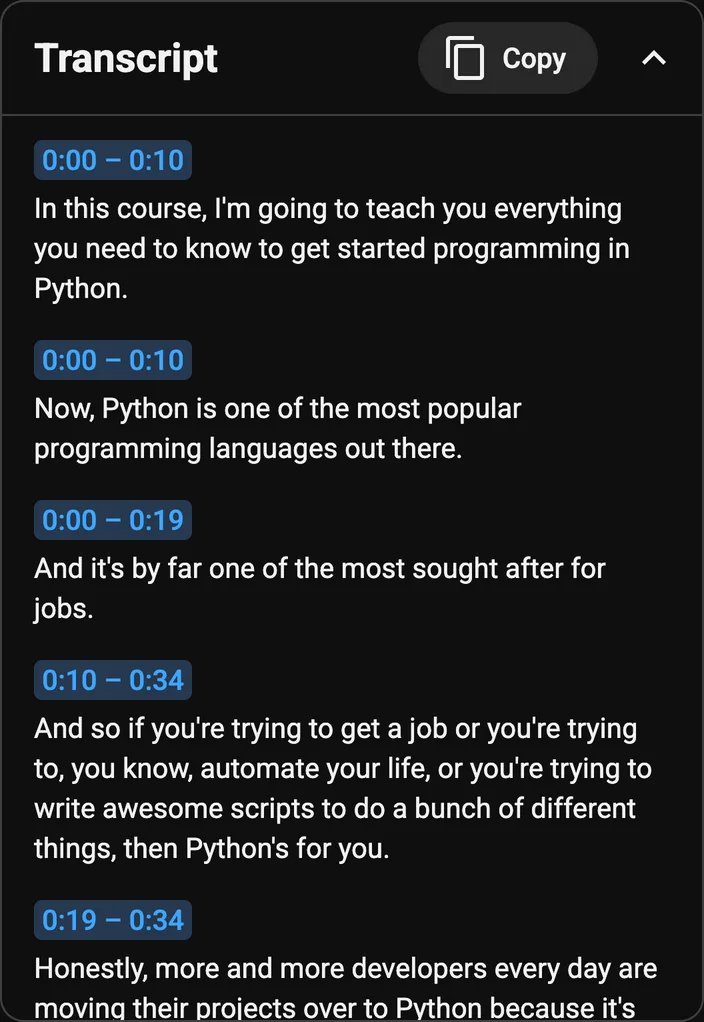
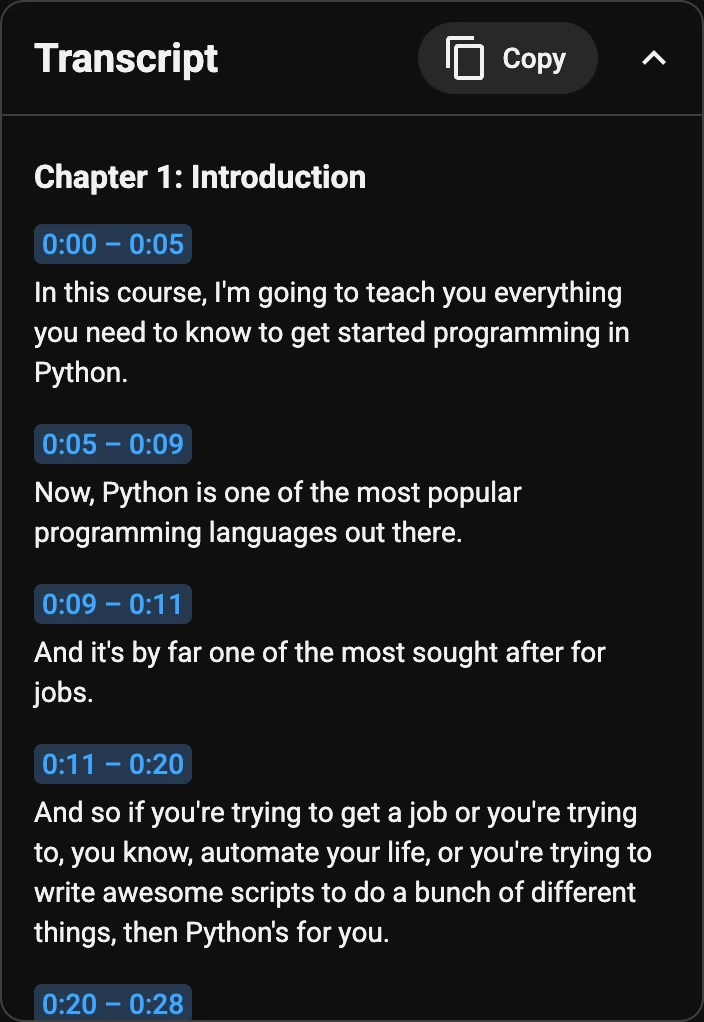
chore: refresh website card images and trim the launch kit
- website/assets/card-*.webp showed the pre-0.2.0 card (repeated time ranges, no
  chapter heading); regenerated with the new 'npm run screenshot -- --site'.
- Launch kit: Product Hunt and Indie Hackers material removed; gallery image 01
  regenerated from the new card images.
- Edge descriptions: en.txt is now an Edge-specific source text and the other 20
  languages follow it sentence by sentence.

Changed region(s): [[0.0312, 0.1213, 0.9375, 1.0], [0.3125, 0.6067, 0.7812, 0.6673], [0.8125, 0.6067, 0.8438, 0.6673]]

diff --git a/docs/launch/README.md b/docs/launch/README.md
@@ -8,32 +8,23 @@ Before submitting, read them briefly yourself and adjust them if needed.
 
 | Platform | Material | Status | Public entry |
 | --- | --- | --- | --- |
-| Indie Hackers | [Product entry and first post](indie-hackers.md) | Product entry published on 12 November; start year 2026 confirmed. Community post prepared as text only | [YTTS](https://www.indiehackers.com/product/ytts) |
-| Product Hunt | [Fields and maker comment](product-hunt.md) | Scheduled on 12 November for 13 November 2026, 09:01 Berlin time (00:01 PT); live status not yet checked again | [Launch target](https://www.producthunt.com/products/ytts?launch=ytts) |
 | Show HN | [Key facts for your own text](show-hn-notes.md) | Facts prepared; post to be written by Marcel | — |
 | AlternativeTo | [Product entry and matching alternatives](alternativeto.md) | Submitted on 12 November with two matching alternatives to the free review queue; not yet public | — |
 | Reddit r/SideProject | [Post with demo](https://www.reddit.com/r/SideProject/comments/1xut1in/i_wanted_a_youtube_transcript_tool_that_actually/) | Submitted on 13 November with the approved text and English demo; removed by Reddit filters; manual approval requested from the moderators | Not yet regularly visible |
 | Microsoft Edge Add-ons | [Package, 21 descriptions, images and privacy](../store/edge/README.md) | Prepared locally; developer account setup and a real Edge test still open. No dashboard draft saved, not submitted | — |
 
 Each status was checked in the browser UI after publication or submission, respectively.
-Product Hunt confirmed the date on 12 November in the pre-launch dashboard as **Scheduled**.
 AlternativeTo showed **Your submission is waiting to be reviewed** on submission and pointed out
 that currently only the submitter can see the app. Check the status under
 [My submissions](https://alternativeto.net/my-submissions/); share the app link only after
 approval. A timely review is not guaranteed. No paid review was booked.
-
-`assets/01-native-themes.png` is built from the website's card images
-(`website/assets/card-*.webp`), which predate v0.2.0: it still shows repeated time ranges and
-no chapter heading. Regenerate it with `node scripts/launch-assets.mjs` once those images are
-replaced. `02-watch-page.png` and `03-preferences.png` were regenerated from the v0.2.0
-screenshots.
 
 ## Shared details
 
 | Field | Value |
 | --- | --- |
 | Name | YTTS |
-| Developer / Maker | Marcel Christophel |
+| Developer | Marcel Christophel |
 | Website and demo | https://ytts.christophel.io/ |
 | Chrome Web Store | https://chromewebstore.google.com/detail/ytts/ipkipmmdaicpfijcddghjpfjpacgdphe |
 | Source code | https://github.com/maphel/YTTS |
@@ -52,7 +43,6 @@ A video needs a transcript that is already available on YouTube. YTTS is indepen
 
 | File | Use |
 | --- | --- |
-| [icon-240.png](assets/icon-240.png) | Product Hunt logo, 240 × 240, transparent background |
 | [icon-512.png](assets/icon-512.png) | Larger icon for directories, 512 × 512 |
 | [01-native-themes.png](assets/01-native-themes.png) | Main image: real card in light and dark, 1270 × 760 |
 | [02-watch-page.png](assets/02-watch-page.png) | Real card on the YouTube page, 1270 × 760 |
@@ -66,7 +56,6 @@ show the English interface. Videos are not re-translated in this step or uploade
 another service. For an optional video field, first check which
 video hosts the platform in question accepts; the website already offers the demo directly.
 
-Gallery alt texts are listed with the [Product Hunt fields](product-hunt.md).
 For directories with little space, the icon and main image are enough.
 
 ## Before submitting
@@ -74,10 +63,9 @@ For directories with little space, the icon and main image are enough.
 1. Open the website and store link, play the demo.
 2. Sign in with your own personal account. Read the text once and confirm it.
 3. Use the prepared texts and images. Select **Free**, not Freemium.
-4. Choose the Product Hunt date so that there is time to reply to comments.
-5. Write the Show HN post yourself and submit it yourself; human-written texts and no
+4. Write the Show HN post yourself and submit it yourself; human-written texts and no
    automated publishing are the rule there.
-6. Afterwards, enter the public link here and respond to questions.
+5. Afterwards, enter the public link here and respond to questions.
 
 No paid placements or faster reviews are planned. These entries
 are mainly ways to gain users and feedback. A published link
@@ -86,7 +74,7 @@ Do not create 21 separate entries for the language versions: use the English mai
 
 ## Regenerating media
 
-With the existing development dependencies and Google Chrome installed:
+With the existing development dependencies (Playwright's Chromium):
 
 ```sh
 node scripts/launch-assets.mjs
@@ -98,10 +86,6 @@ not changed in the process.
 
 ## Platform rules checked
 
-- [Product Hunt: fields and media](https://help.producthunt.com/en/articles/17834537-4-build-your-product-page)
-  and [free launch](https://help.producthunt.com/en/articles/17734646-8-launch-faq-and-myths).
-- [Indie Hackers: product database](https://www.indiehackers.com/products),
-  [free basic use](https://www.indiehackers.com/terms).
 - [Show HN](https://news.ycombinator.com/showhn.html) and
   [HN guidelines](https://news.ycombinator.com/newsguidelines.html).
 - [AlternativeTo: submitting and queue](https://alternativeto.net/faq/),

diff --git a/AGENTS.md b/AGENTS.md
@@ -32,7 +32,7 @@ popup. Vanilla JavaScript classic scripts, no build step, no runtime dependencie
 | `docs/screenshots/` | README images (card and popup, light and dark), generated by `npm run screenshot` |
 | `docs/store/` | Chrome Web Store listing texts, permission explanations, data-use recommendation and submission checklist (manual; no upload automation) |
 | `docs/store/edge/`, `scripts/edge-assets.mjs` | Microsoft Edge Add-ons preparation: 21 listing descriptions, Edge privacy policy, reviewer notes and a 440 × 280 vector-based promotional tile; manual account, browser test and submission remain separate |
-| `docs/launch/`, `scripts/launch-assets.mjs` | Community launch kit: listing copy and status for Indie Hackers, Product Hunt, AlternativeTo and Show HN notes; three 1270 × 760 gallery images and 240/512 px icons rendered from existing screenshots and the vector icon |
+| `docs/launch/`, `scripts/launch-assets.mjs` | Community launch kit: listing copy and status for AlternativeTo and Show HN notes; three 1270 × 760 gallery images and a 512 px icon rendered from existing screenshots and the vector icon |
 | `docs/store/screenshots/` | Store images (1280 × 800, 640 × 400, light and dark), generated by `npm run screenshot -- --store` |
 | `website/` | Static product website: translated copy for all 21 locales, styles, browser interactions, demo videos (landscape and portrait) and Cloudflare Workers static-asset configuration. `npm run site:build` generates ignored `website/dist/`; see `website/README.md` |
 | `scripts/build-website.mjs`, `tests/website.spec.mjs` | Generates the localized website, metadata, sitemap and headers; browser tests cover languages, responsive layouts, themes, demo and navigation |

diff --git a/website/README.md b/website/README.md
@@ -25,7 +25,8 @@ URL and reciprocal language alternates. `sitemap.xml` lists all 21 pages.
 - `copy/*.json`: translated page content, keyed by the extension's locale codes. Every locale
   must have exactly the keys of `en.json`; the build fails otherwise.
 - `styles.css`, `client.js`: theme toggle, language selection and in-place demo playback.
-- `assets/`: YTTS icon, the transcript card in light and dark (`card-*.webp`), the demo in
+- `assets/`: YTTS icon, the transcript card in light and dark (`card-*.webp`, generated by
+  `npm run screenshot -- --site` from the real extension on youtube.com), the demo in
   landscape (`demo.mp4`, 1920 × 1080) and portrait for phones (`demo-portrait.mp4`,
   1080 × 1350), their posters and the share image (`og.jpg`, 1200 × 630).
 - `dist/`: generated pages and copied assets; ignored by Git.

diff --git a/docs/store/edge/README.md b/docs/store/edge/README.md
@@ -135,10 +135,8 @@ certification. There is no assumed second manual go-live gate.
 
 ## Open items
 
-- **Descriptions differ by language.** `descriptions/en.txt` is the Chrome Web Store text and
-  does not mention Edge. Other languages name Microsoft Edge, and some add "free and open
-  source", "no ads" or the settings-sync sentence. All of these statements are true, but align
-  the 21 texts to one English source before submitting.
+- **Descriptions:** `descriptions/en.txt` is the source text; the other 20 files follow it
+  sentence by sentence. They were aligned by an agent and not checked by native speakers.
 - **Edge sideload check** (see above) and the saved dashboard draft.
 - **Privacy policy URL:** after this file is on `main`, open its public URL before using it in
   the listing.

diff --git a/README.md b/README.md
@@ -125,6 +125,7 @@ YouTube tab. Please read [Contributing](CONTRIBUTING.md) before making changes.
 ```sh
 npm run screenshot             # docs/screenshots/*.png for this README (needs youtube.com)
 npm run screenshot -- --store  # docs/store/screenshots/*.png for the Chrome Web Store
+npm run screenshot -- --site   # website/assets/card-*.webp for the product website
 ```
 
 ## License
